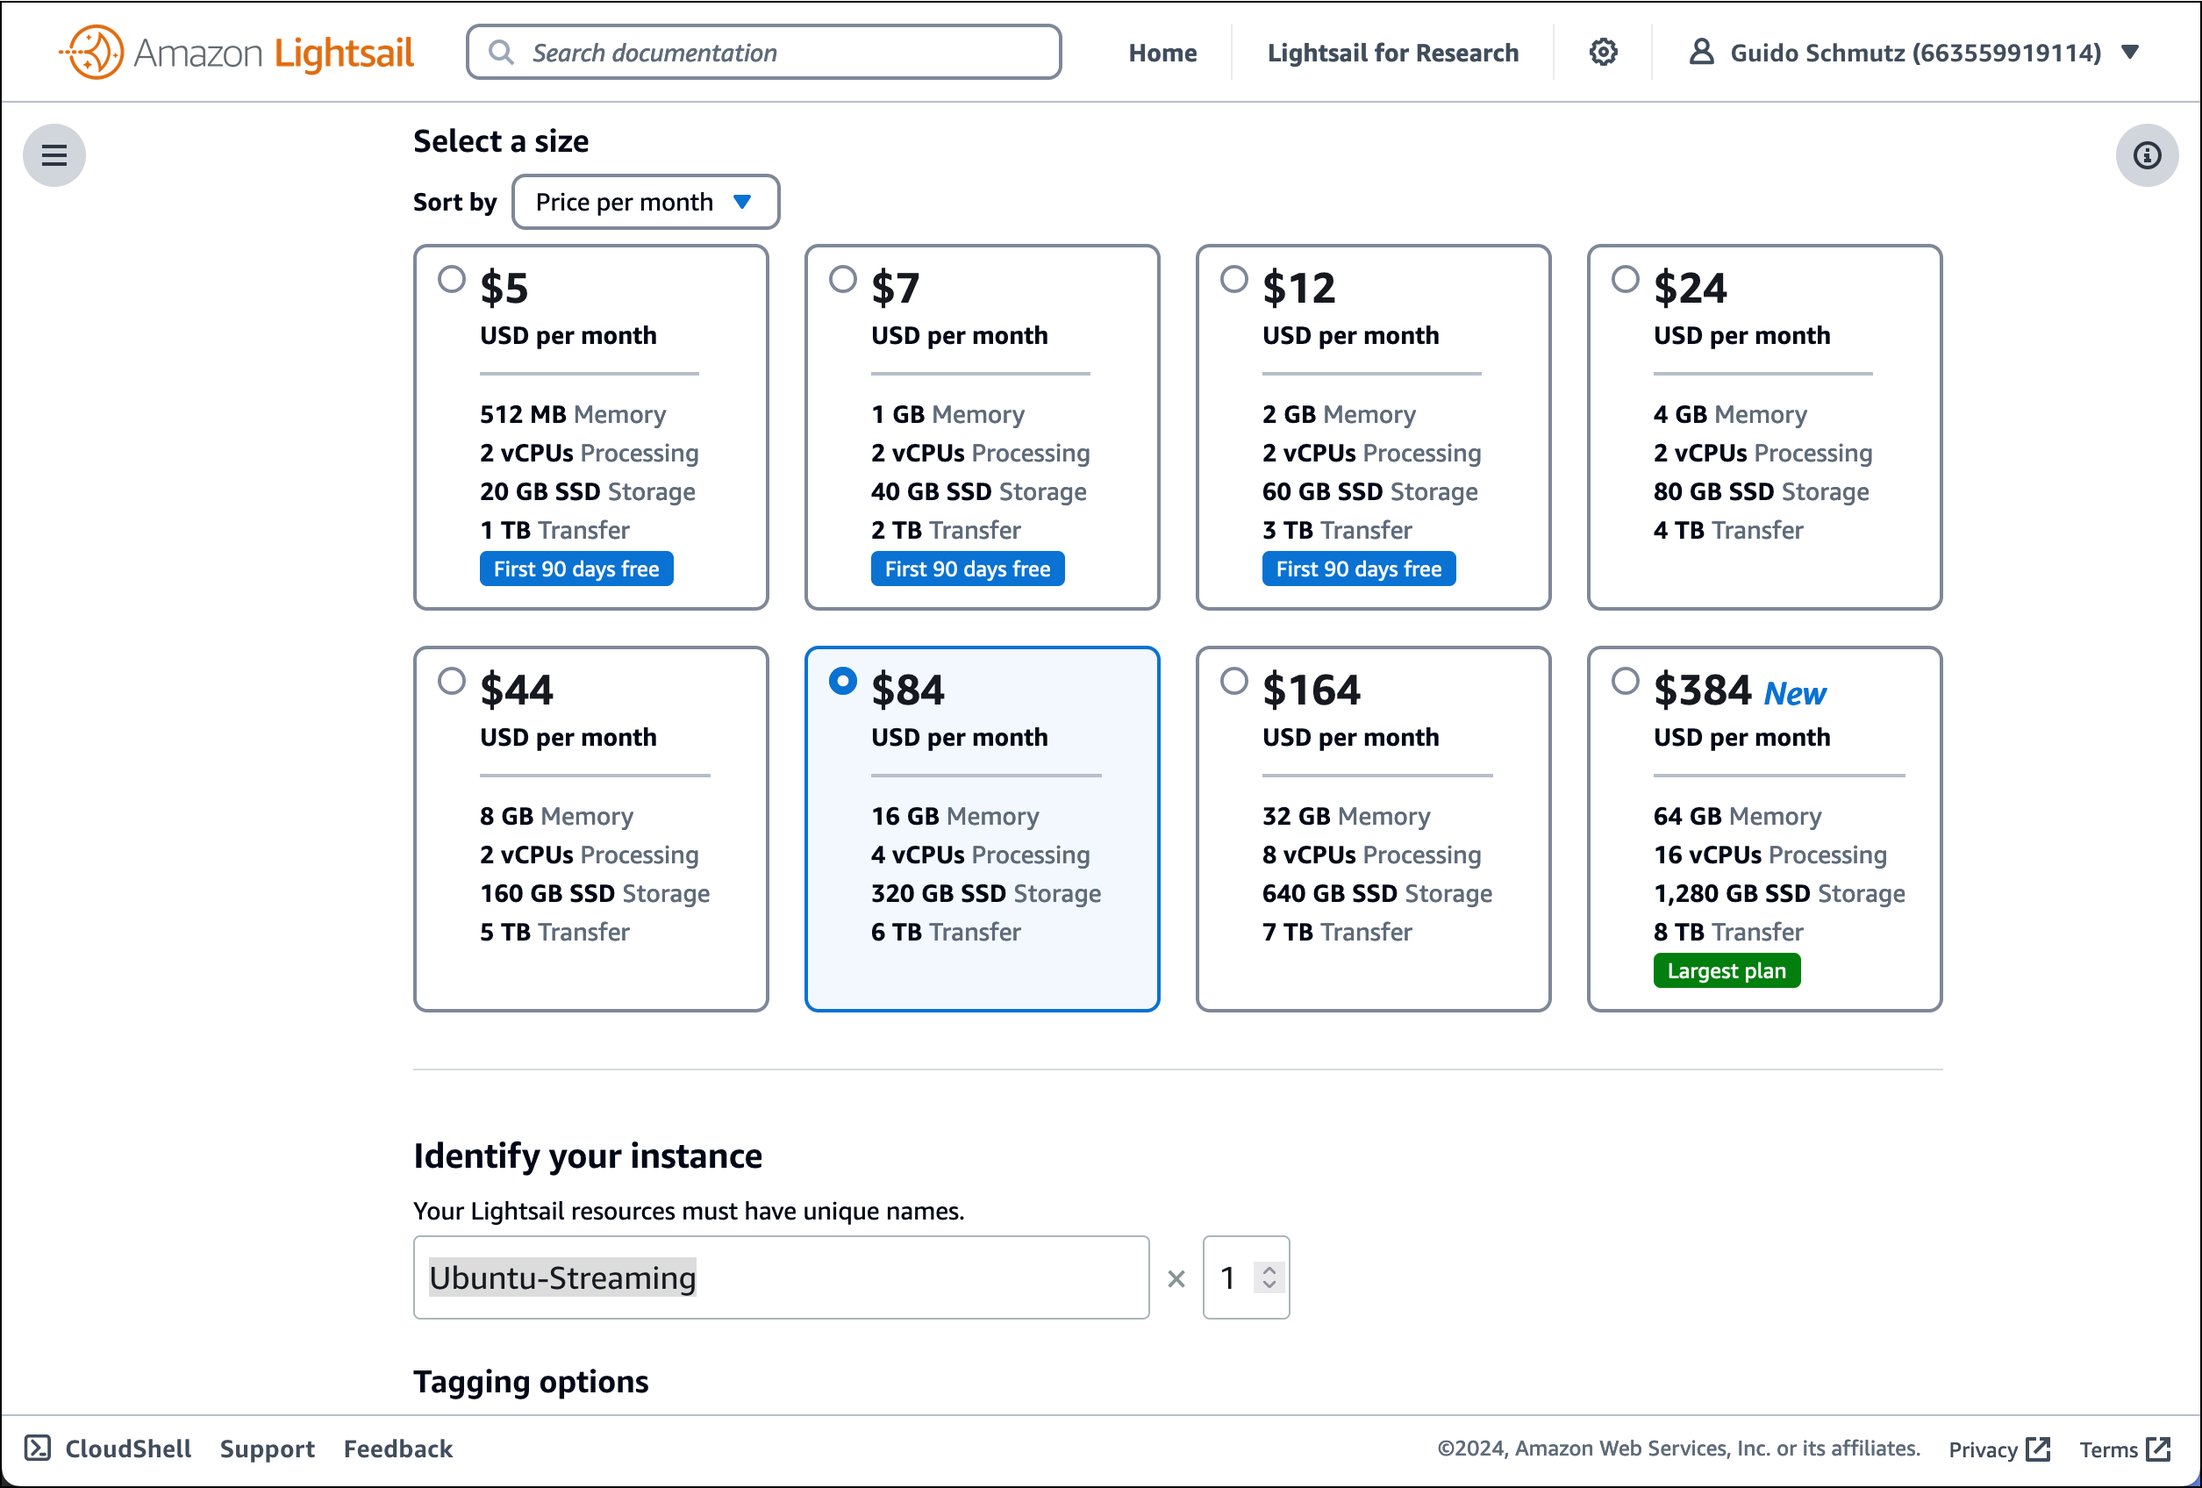
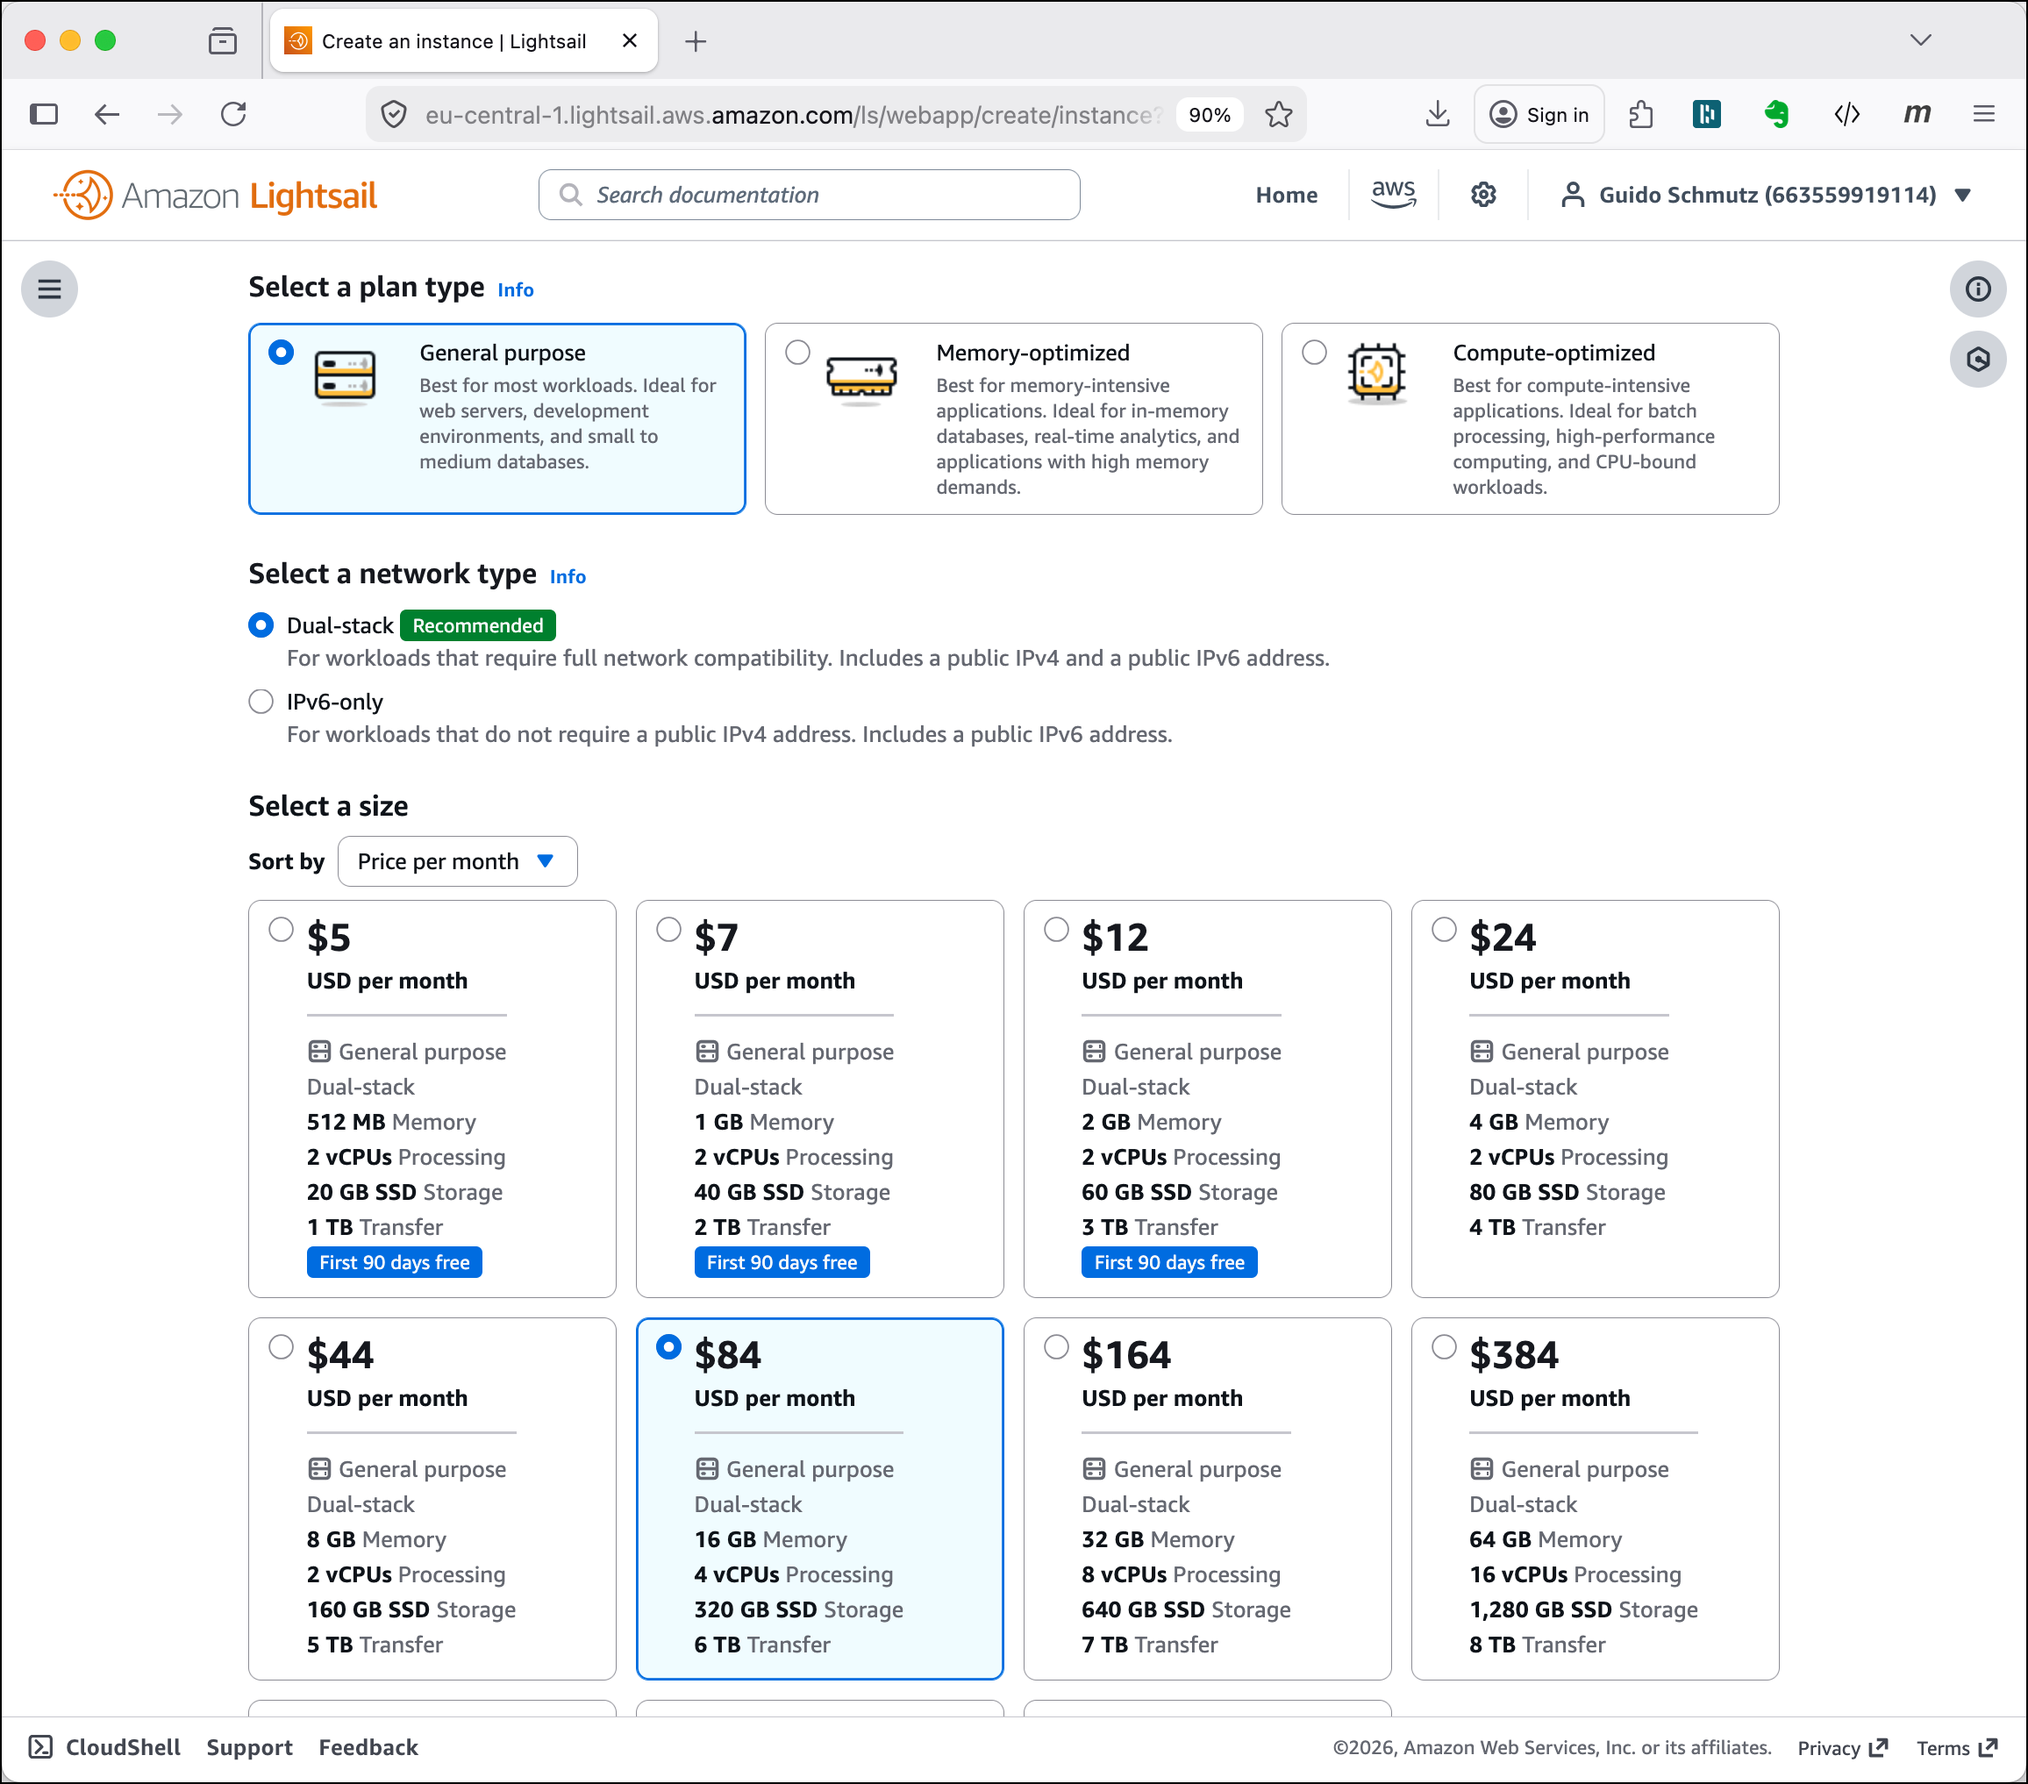
update lightsail doc

diff --git a/00-environment/Lightsail.md b/00-environment/Lightsail.md
@@ -11,11 +11,13 @@ Click **Create instance** to navigate to the **Create an instance** dialog.
 ![Alt Image Text](./images/lightsail-create-instance-1.png "Lightsail Homepage")
 
 Optionally change the **Instance Location** to a AWS region of your liking.
-Keep **Linux/Unix** for the **Select a platform** and click on **OS Only** and select **Ubuntu 22.04 LTS** for the **Select a blueprint**.
+Keep **Linux/Unix** for the **Select a platform** and click on **OS Only** and select **Ubuntu 24.04 LTS** for the **Select a blueprint**.
 
 ![Alt Image Text](./images/lightsail-create-instance-2.png "Lightsail Homepage")
 
-Scroll down to **Launch script** and add the following script
+Scroll down to **Launch script** and add the following script.
+
+Optionally change the password from the default value of abc123! to a more secure one.
 
 ```
 export GITHUB_PROJECT=stream-processing-workshop
@@ -65,7 +67,7 @@ sudo chown root:root /usr/local/bin/platys
 sudo rm /tmp/platys.tar.gz 
 
 # Install various Utilities
-sudo apt-get install -y curl jq kafkacat tmux unzip tree
+sudo apt-get install -y curl jq kcat tmux unzip tree
 
 # needed for elasticsearch
 sudo sysctl -w vm.max_map_count=262144   
@@ -75,7 +77,7 @@ cd /home/${USERNAME}
 git clone https://github.com/${GITHUB_OWNER}/${GITHUB_PROJECT}
 chown -R ${USERNAME}:${USERNAME} ${GITHUB_PROJECT}
 
-cd /home/${USERNAME}/${GITHUB_PROJECT}/01-environment/docker
+cd /home/${USERNAME}/${GITHUB_PROJECT}/00-environment/docker
 
 # Make Environment Variables persistent
 sudo echo "export PUBLIC_IP=$PUBLIC_IP" | sudo tee -a /etc/profile.d/platys-platform-env.sh
@@ -90,15 +92,17 @@ into the **Launch Script** edit field
 
 ![Alt Image Text](./images/lightsail-create-instance-3.png "Lightsail Homepage")
 
-Under **Choose your instance plan** click on the arrow on the right and select the **16 GB** instance.  
-
-Under **Identify your istance** enter **Ubuntu-Streaming** into the edit field.
+Scroll further down and under **Choose your instance plan** leave the **Dual Stack** selected and select the **16 GB** instance. It will cost you **$84** per month (but you can stop it anytime).
 
 ![Alt Image Text](./images/lightsail-create-instance-4.png "Lightsail Homepage")
 
-Click on **Create Instance** to start provisioning the instance.
+Under **Identify your istance** enter **Ubuntu-Streaming** into the edit field.
 
-The new instance will show up in the Instances list on the Lightsail homepage.
+![Alt Image Text](./images/lightsail-create-instance-5.png "Lightsail Homepage")
+
+Click on **Create Instance** to start provisioning the instance. 
+
+The new instance will show up in the Instances list on the Lightsail homepage. 
 
 ![Alt Image Text](./images/lightsail-image-started.png "Lightsail Homepage")
 
@@ -123,10 +127,10 @@ The platform contains some web-based documentation, which can be accessed once t
 ![Alt Image Text](./images/platform-overview.png "Platform Overview")
 
 If you click on the "A list of available services is available here" a page with the list of available services and their IP address will appear
-
+   
 ![Alt Image Text](./images/platform-services.png "Platform Services")
 
-So with all services running, there is one last step to do. We have to configure the Firewall to allow traffic into the Lightsail instance.
+So with all services running, there is one last step to do. We have to configure the Firewall to allow traffic into the Lightsail instance. 
 
 ## Open Network Firewall
 
@@ -135,7 +139,7 @@ For accessing the services running in the cloud from our machine, we have two op
 1. Open the ports on the firewall (this is what we do here)
 2. Create an SSH Tunnel
 
-Because the Lightsail instance is exposed to the public internet, generally opening the ports is not the best idea. But if you open it to accept only traffic from your own IP address, the risk can be minimised. Using an SSH tunnel is more secure, but also more difficult to setup.
+Because the Lightsail instance is exposed to the public internet, generally opening the ports is not the best idea. But if you open it to accept only traffic from your own IP address, the risk can be minimised. Using an SSH tunnel is more secure, but also more difficult to setup. 
 
 So let see how we can open the ports on the firewall. Click on the **Networking** tab/link to navigate to the network settings.
 
@@ -143,19 +147,18 @@ So let see how we can open the ports on the firewall. Click on the **Networking*
 
 Click on **Add rule** to add a new Firewall rule.
 
-For simplicity reasons, we allow all TCP traffic by selecting **All TCP** on port range **0 - 65535**.
-To increase security, you should restrict incoming traffic to one or more IP addresses by selecting the option **Restrict to IP address** and adding the IP address of your client as the **Source IP address**.
+For simplicity reasons, we allow all TCP traffic by selecting **All TCP** on port range **0 - 65535**. 
+To increase security, you should restrict incoming traffic to one or more IP addresses by selecting the option **Custom IPv4 address** and adding the IP address of your client as the **Source IP address**.
 
 ![Alt Image Text](./images/lightsail-image-networking-add-firewall-rule-1.png "Lightsail Homepage")
 
-To find out your IP address, browse to <https://www.whatismyip.com/> and use the `XXX.XXX.XXX.XXX` value shown right to **My Public IPv4 is:** to replace the `188.60.35.196` value in the image above.
+To find out your IP address, browse to <https://www.whatismyip.com/> and use the `XXX.XXX.XXX.XXX` value shown right to **My Public IPv4 is:** to replace the value in the **Source IP address** field. You can also add multiple Source IP addresses.
 
-Click on **Create** to save this new Firewall rule and it should be added to the list of rules.
+Click on **Create** to save this new Firewall rule and it should be added to the list of rules. 
 
 ![Alt Image Text](./images/lightsail-image-networking-add-firewall-rule-2.png "Lightsail Homepage")
 
 Your instance is now ready to use. Complete the post installation steps documented the [here](README.md).
-
 
 ## Using the Web-Terminal
 
